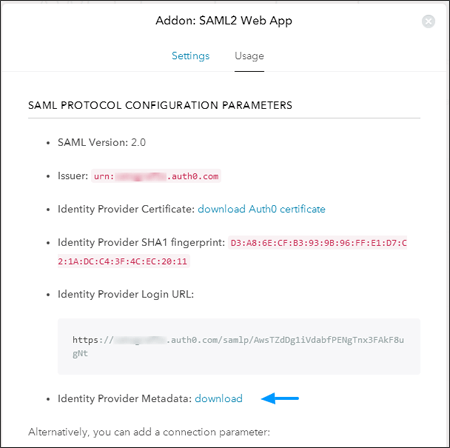
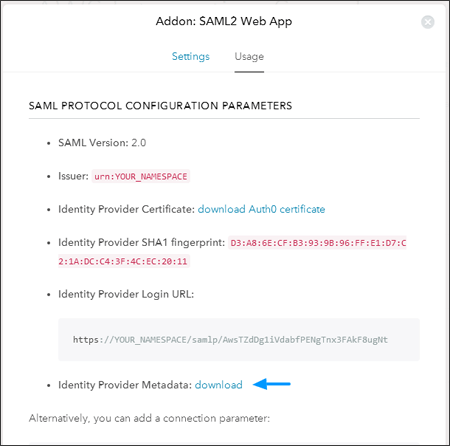
Edits, new screenshots, new steps, fixes first section of #422

diff --git a/articles/integrations/aws.md b/articles/integrations/aws.md
@@ -11,75 +11,96 @@ To configure Auth0 for federation with AWS using SAML, follow the steps below:
 
 1. On the Auth0 [Dashboard](${uiURL}/#/applications), add a new app. In the **Addons** tab of the app settings page, enable the **SAML2 Web App** add-on.
 
-  ![Addons](/media/articles/integrations/aws/addons.png)
+  ![](/media/articles/integrations/aws/addons.png)
 
 2. Under the **Settings** tab of the **SAML2 Web App Addon** page, enter `https://signin.aws.amazon.com/saml` for the **Application Callback URL** and paste the following default SAML configuration code into the *Settings* box:
 
   ```
-  {
-   "audience":  "https://signin.aws.amazon.com/saml",
-   "mappings": {
+    {
+     "audience":  "https://signin.aws.amazon.com/saml",
+     "mappings": {
      "email":       "http://schemas.xmlsoap.org/ws/2005/05/identity/claims/emailaddress",
      "name":        "http://schemas.xmlsoap.org/ws/2005/05/identity/claims/name",
-   },
-   "createUpnClaim":       false,
-   "passthroughClaimsWithNoMapping": false,
-   "mapUnknownClaimsAsIs": false,
-   "mapIdentities":        false,
-   "nameIdentifierFormat": "urn:oasis:names:tc:SAML:2.0:nameid-format:persistent",
-   "nameIdentifierProbes": [
-     "http://schemas.xmlsoap.org/ws/2005/05/identity/claims/emailaddress",
-   ],
-  }
+     },
+    "createUpnClaim":       false,
+    "passthroughClaimsWithNoMapping": false,
+    "mapUnknownClaimsAsIs": false,
+    "mapIdentities":        false,
+    "nameIdentifierFormat": "urn:oasis:names:tc:SAML:2.0:nameid-format:persistent",
+    "nameIdentifierProbes": [
+      "http://schemas.xmlsoap.org/ws/2005/05/identity/claims/emailaddress",
+    ]
+    }
   ```
 
   Scroll to the bottom of the page and click **Save**:
 
-  ![Addons](/media/articles/integrations/aws/configure.png)
+  ![](/media/articles/integrations/aws/configure.png)
 
-3. Auth0 needs to be configured as the identity provider (IdP) for AWS. (For more information, see [Creating SAML Identity Providers](http://docs.aws.amazon.com/IAM/latest/UserGuide/id_roles_providers_create_saml.html) in the AWS Identity and Access Management IAM User Guide.)
+3. Auth0 needs to be configured as the identity provider (IdP) for AWS. AWS requires an **IdP Metadata** file to import.
+Select the **Usage** tab and click the **Identity Provider Metadata** download link to save the file:
 
-  AWS requires an **IdP Metadata** file to import. Select the **Usage** tab and click the **Identity Provider Metadata** download link to save the file:
+  ![](/media/articles/integrations/aws/idp-download.png)
 
-  ![Addons](/media/articles/integrations/aws/idp-download.png)
+4. Create a SAML provider. 
+    1. From the [IAM console](https://console.aws.amazon.com/iam/home#home), select **Identity Providers** in the left menu.
+    2. Select **SAML** in the **Provider Type** dropdown, enter a name for your provider and browse for the metadata document you downloaded in the previous step. Click **Next Step**.
 
-5. Send **AWS roles** or write a Rule to map values to it, like this example:
+      ![](/media/articles/integrations/aws/aws-configure-provider.png)
+    3. Verify your settings and click **Create**:
+
+4. Now you must create a role in AWS in a specific way to allow its use to gain access to AWS. (For more information on creating roles, see [Creating SAML Identity Providers](http://docs.aws.amazon.com/IAM/latest/UserGuide/id_roles_providers_create_saml.html).
+The steps are:
+
+    1. From the [IAM console](https://console.aws.amazon.com/iam/home#home), select **Roles** in the left menu, then click **Create New Role**:
+    ![](/media/articles/integrations/aws/iam-new-role.png)
+    2. Enter a name for the role and click **Next Step**.
+    3. Select **Role for Identity Provider Access**  then select **Grant Web Single Sign-On (WebSSO) access to SAML providers**:
+    ![](/media/articles/integrations/aws/iam-role-type.png)
+    5. On the next screen, accept the default `SAML:aud` value of `https://signin.aws.amazon.com/saml`, and click **Next Step**.
+    6. Accept the **Role Trust** proposed. (This policy tells IAM to trust the Auth0 SAML IDP.) Click **Next Step**.
+    7. Choose an appropriate access policy for this role. This defines the permissions that the user granted this role will have with AWS. For example, to only let users read information in the console, select the `ReadOnlyAccess` policy. Click **Next Step**.
+    8. Review the role information, then click **Create Role**:
+    ![](/media/articles/integrations/aws/iam-review-role.png)
+
+5. Write a [Rule](/rules) to map the AWS role to a user.
+
+  The **AWS roles** you send will be associated to an **AWS IAM Policy** that will enforce the type of access allowed for a resource, including the AWS dashboard. (For more information on roles and policies, see [Creating IAM Roles](http://docs.aws.amazon.com/IAM/latest/UserGuide/roles-creatingrole.html)) Notice the **AWS Role** has a structure of `{Fully qualified Role name},{Fully qualified identity provider}`. The IdP is identified as `arn:aws:iam::951887872838:saml-provider/MyAuth0` in the sample below:
 
   ```js
 function (user, context, callback) {
 
 	user.awsRole = 'arn:aws:iam::951887872838:role/TestSAML,arn:aws:iam::951887872838:saml-provider/MyAuth0';
-  user.awsRoleSession = 'eugeniop';
+    user.awsRoleSession = 'eugeniop';
 
-  context.samlConfiguration.mappings = {
+    context.samlConfiguration.mappings = {
       "https://aws.amazon.com/SAML/Attributes/Role": "awsRole",
       "https://aws.amazon.com/SAML/Attributes/RoleSessionName": "awsRoleSession"
-  };
-  callback(null, user, context);
-}
+    };
+    callback(null, user, context);
+    }
   ```
 
-Notice that how you obtain these 2 values in multiple ways. The above, just hardcodes them. You could store these in the __User Profile__, or you could also derive them from other attributes. For example, you might use Active Directory and have properties already associated with users (e.g. `groups`). You can then define a map between `groups` and `AWS roles`:
+  Notice that how you obtain these 2 values in multiple ways. The above example hardcodes them. You could store these in the *User Profile*, or you could derive them from other attributes. For example, you might use Active Directory and have properties already associated with users (e.g. `groups`). You can then define a map between `groups` and `AWS roles`:
 
-```
-...
-var awsRoles = {
-  'DomainUser': 'arn:aws:iam::951887872838:role/TestSAML,arn:aws:iam::95123456838:saml-provider/MyAuth0',
-  'DomainAdmins': arn:aws:iam::957483571234:role/SysAdmins,arn:aws:iam::95123456838:saml-provider/MyAuth0'
-};
+  ```
+    ...
+    var awsRoles = {
+    'DomainUser': 'arn:aws:iam::951887872838:role/TestSAML,arn:aws:iam::95123456838:saml-provider/MyAuth0',
+    'DomainAdmins': arn:aws:iam::957483571234:role/SysAdmins,arn:aws:iam::95123456838:saml-provider/MyAuth0'
+    };
 
-context.samlConfiguration.mappings = {
+    context.samlConfiguration.mappings = {
     "https://aws.amazon.com/SAML/Attributes/Role": awsRoles[user.group],
     "https://aws.amazon.com/SAML/Attributes/RoleSessionName": user.name,
 
-};
-...
-```
+    };
+    ...
+  ```
 
-The __AWS roles__ you send will be associated to an __AWS IAM Policy__ that will enforce the type of access allowed for a resource, including the AWS dashboard. Notice the __AWS Role__ has structure of `{Fully qualified Role name},{Fully qualified identity provider}`. In the sample above the IdP is identified as `arn:aws:iam::951887872838:saml-provider/MyAuth0`.
-
-More information on roles, policies see [here](http://docs.aws.amazon.com/IAM/latest/UserGuide/roles-creatingrole.html).
-
+7. You are now setup for single sign-on to AWS. You can find the `Identity Provider Login URL` on the Auth0 Dashboard. Go to the **SAML2 Addon** settings page of your app, and select the **Usage** tab.
+  ![](/media/articles/integrations/aws/idp-url.png)
+  To use the single sign-on, navigate to that URL, and you will be brought to the Auth0 login. After signing in, you will be redirected to AWS.
 
 ## Delegation Scenarios
 
